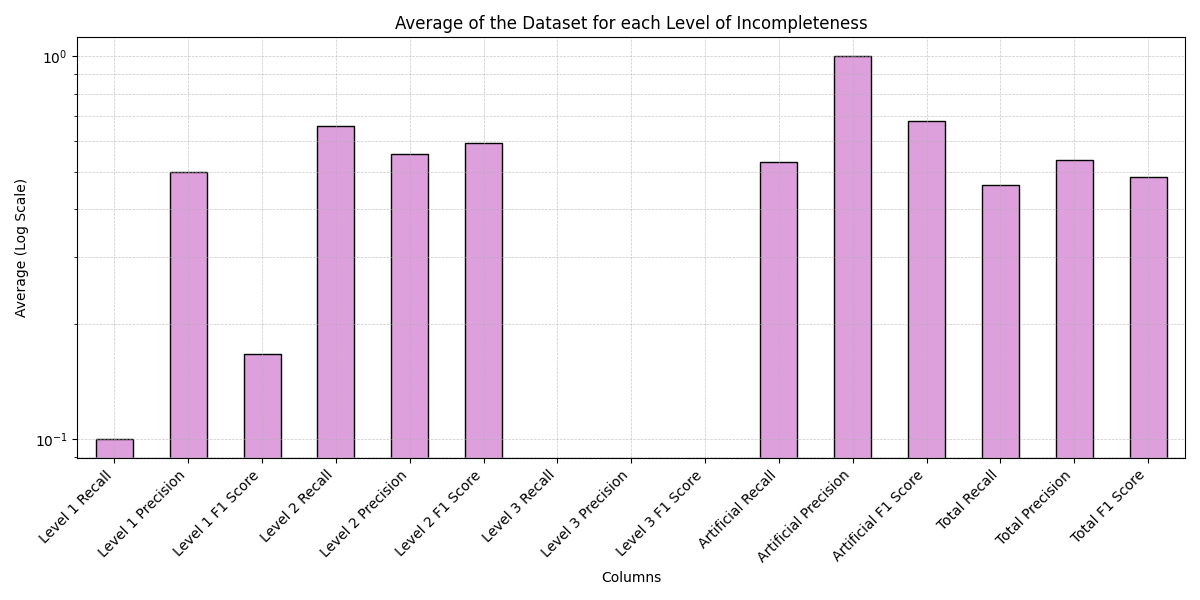
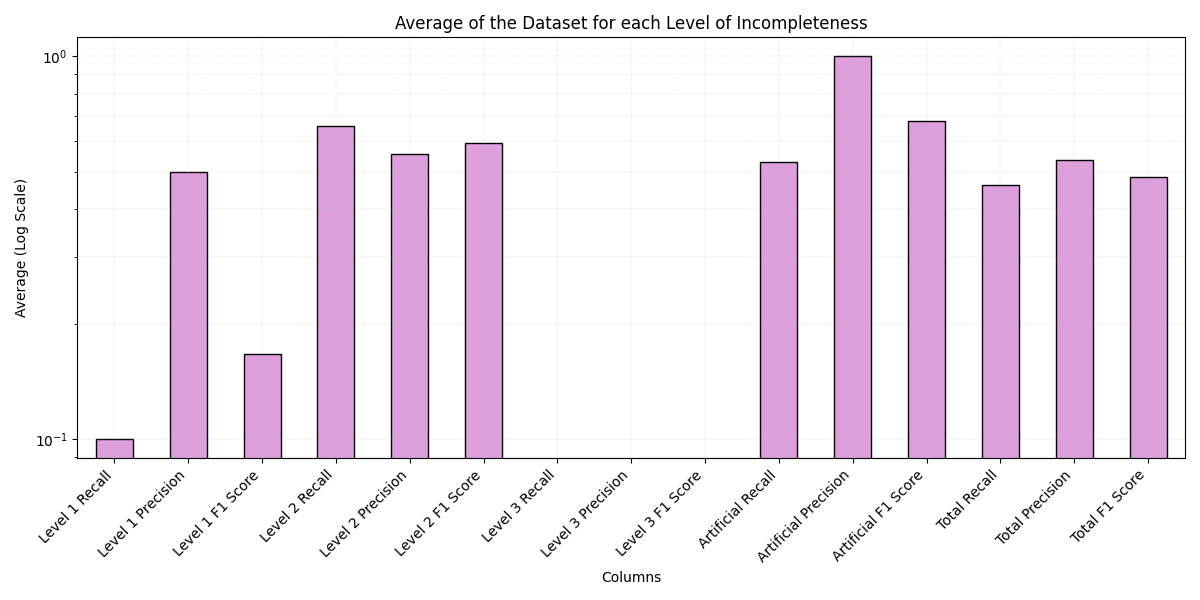
new colors for plots

diff --git a/src/scoring/advanced_plotting.py b/src/scoring/advanced_plotting.py
@@ -3,7 +3,7 @@ import pandas as pd
 import matplotlib.pyplot as plt
 
 # Define the path to the CSV file
-file_path = "../../out/delimiter_difference/comma_delimiter_score.csv"
+file_path = "../../out/advanced/advanced_score.csv"
 
 # Read the CSV file into a DataFrame
 df = pd.read_csv(file_path)
@@ -41,13 +41,12 @@ extracted_df = df[['Id', 'Total Recall', 'Total Precision', 'Total F1 Score']]
 extracted_df.set_index('Id', inplace=True)
 
 # Plot the data with specific colors
-plt.figure(figsize=(12, 6))
-ax = extracted_df.plot(kind='bar', figsize=(12, 6), width=0.8, color=['#FFD700', '#FFA500', '#FF4500'])  # Yellow, Orange, Red
+ax = extracted_df.plot(kind='bar', figsize=(8, 6), width=0.4, color=['#333333', '#B0C4DE', 'teal'], edgecolor='black')  # Yellow, Orange, Red
 plt.title('Total Recall, Precision, and F1 Score by ID')
 plt.ylabel('Scores')
 plt.xticks(rotation=45, ha='right')
 plt.legend(loc='best')
-plt.grid(axis='y', linestyle='--', alpha=0.7)
+plt.grid(axis='y', linestyle='--', linewidth=0.3, alpha=0.5)
 plt.tight_layout()
 
 # Show the plot
@@ -71,7 +70,7 @@ column_average = column_sums.div(len(df))
 
 # Create the bar plot
 plt.figure(figsize=(12, 6))
-bar_plot = column_average.plot(kind='bar', color='plum', edgecolor='black')
+bar_plot = column_average.plot(kind='bar', color='#F39C12', edgecolor='black')
 # Set y-axis to logarithmic scale
 plt.yscale('log')
 
@@ -81,7 +80,7 @@ plt.xlabel('Columns')
 plt.ylabel('Average (Log Scale)')
 
 # Add gridlines for better readability
-plt.grid(True, which="both", linestyle='--', linewidth=0.5, alpha=0.7)
+plt.grid(True, which="both", linestyle='--', linewidth=0.3, alpha=0.5)
 
 # Rotate x-axis labels for better readability
 plt.xticks(rotation=45, ha='right')
@@ -126,12 +125,12 @@ comparison_df = pd.DataFrame({
 
 # Plot the comparison
 plt.figure(figsize=(12, 6))
-comparison_df.plot(kind='bar', color=['#FFD700', '#FF4500'], edgecolor='black')
+comparison_df.plot(kind='bar', width=0.35, color=['#2C3E50', '#F39C12'], edgecolor='black')
 plt.title('Comma vs Semicolon Delimiter')
 plt.ylabel('Average Scores')
 plt.xticks(rotation=0, ha='center')
 plt.legend(loc='best')
-plt.grid(axis='y', linestyle='--', alpha=0.7)
+plt.grid(axis='y', linestyle='--', linewidth=0.3, alpha=0.5)
 plt.tight_layout()
 plt.show()
 
@@ -174,7 +173,7 @@ plt.xlabel('Columns')
 plt.ylabel('Score (Log Scale)')
 
 # Add gridlines for better readability
-plt.grid(True, which="both", linestyle='--', linewidth=0.5, alpha=0.7)
+plt.grid(True, which="both", linestyle='--', linewidth=0.3, alpha=0.5)
 
 # Rotate x-axis labels for better readability
 plt.xticks(rotation=45, ha='right')
@@ -223,7 +222,7 @@ plt.xlabel('Columns')
 plt.ylabel('Score (Log Scale)')
 
 # Add gridlines for better readability
-plt.grid(True, which="both", linestyle='--', linewidth=0.5, alpha=0.7)
+plt.grid(True, which="both", linestyle='--', linewidth=0.3, alpha=0.5)
 
 # Rotate x-axis labels for better readability
 plt.xticks(rotation=45, ha='right')

diff --git a/src/scoring/exploration_plotting.py b/src/scoring/exploration_plotting.py
@@ -1,39 +1,53 @@
 import pandas as pd
 import matplotlib.pyplot as plt
 
+# File paths to CSV files
+init = '../../out/exploration/2021_init-v_exploration_score.csv'
+neutero = '../../out/exploration/2022_neutero_exploration_score.csv'
+octo = '../../out/exploration/2023_octo_exploration_score.csv'
 
-init = '../../dataset/PSE/2021_init-v/exploration.csv'
-neutero = '../../dataset/PSE/2022_neutero/exploration.csv'
-octo = '../../dataset/PSE/2023_octo/exploration.csv'
-
+# Load the data
 df1 = pd.read_csv(init)
 df2 = pd.read_csv(neutero)
 df3 = pd.read_csv(octo)
 
 # Add a column to each DataFrame to identify the source
-df1['Project'] = '2021 init-v'  # Replace with actual project name or identifier
+df1['Project'] = '2021 init-v'
 df2['Project'] = '2022 neutero'
 df3['Project'] = '2023 octo'
 
 # Combine the DataFrames
 combined_df = pd.concat([df1, df2, df3])
 
-# Filter the DataFrame by 'Id'
-allowed_ids = ['Combined GK + CT', 'Combined CoT + RI', 'Combined All']
-filtered_df = combined_df[combined_df['Id'].isin(allowed_ids)]
+# Define the custom order for 'Id', placing combined IDs at the top
+custom_order = [
+    'Combined GK + CT',
+    'Combined CoT + RI',
+    'Combined All',
+] + [id for id in combined_df['Id'].unique() if id not in ['Combined GK + CT', 'Combined CoT + RI', 'Combined All']]
 
-# Step 2: Group data by 'Id' and 'Project'
-grouped_df = filtered_df.pivot_table(index='Id', columns='Project', values='F1 score')
+# Reindex the DataFrame according to this custom order
+grouped_df = combined_df.pivot_table(index='Id', columns='Project', values='F1 score')
+grouped_df = grouped_df.reindex(custom_order)
 
-# Step 3: Plot the data as a bar chart
-grouped_df.plot(kind='bar', figsize=(10, 6))
+# Plot the data as a bar chart
+ax = grouped_df.plot(kind='bar', figsize=(10, 6), color=['#333333', '#F39C12', '#8198A0'], edgecolor='black')
+
+# Add a vertical line after the combined bars
+n_combined = len(['Combined GK + CT', 'Combined CoT + RI', 'Combined All'])
+plt.axvline(x=n_combined - 0.5, color='black', linestyle='--', linewidth=1)
 
 # Customize the plot
-plt.title('F1 Scores Grouped by Prompts')
-plt.xlabel('Prompt Technique')
-plt.ylabel('F1 Score')
-plt.xticks(rotation=0, ha='right')
-plt.legend(title='Document')
+plt.title('F1 Scores Grouped by Prompts', fontsize=14, color='#2C3E50')
+plt.xlabel('Prompt Technique', fontsize=12, color='#2C3E50')
+plt.ylabel('F1 Score', fontsize=12, color='#2C3E50')
+plt.xticks(rotation=45, ha='right', color='#2C3E50')
+plt.yticks(color='#2C3E50')
+plt.legend(title='Document', title_fontsize='13', fontsize='11')
+
+# Set the background color for the plot area and figure
+ax.set_facecolor('#F8F8F8')  # Lighter gray for the plot area
+plt.gcf().set_facecolor('#FFFFFF')  # White background for the figure
 
 # Show the plot
 plt.tight_layout()
